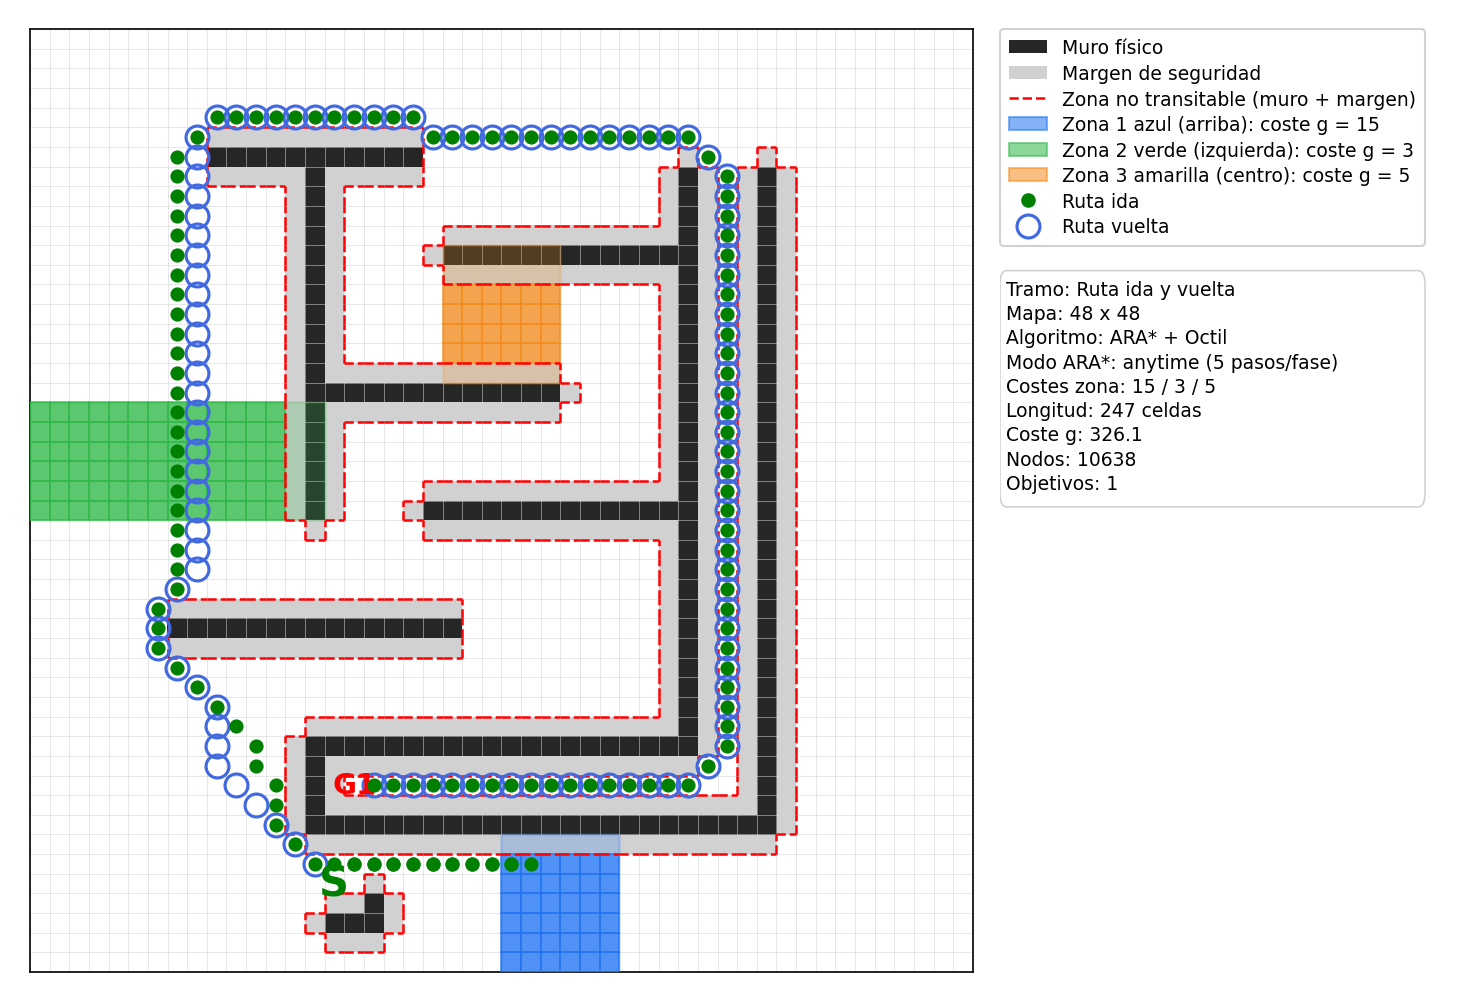
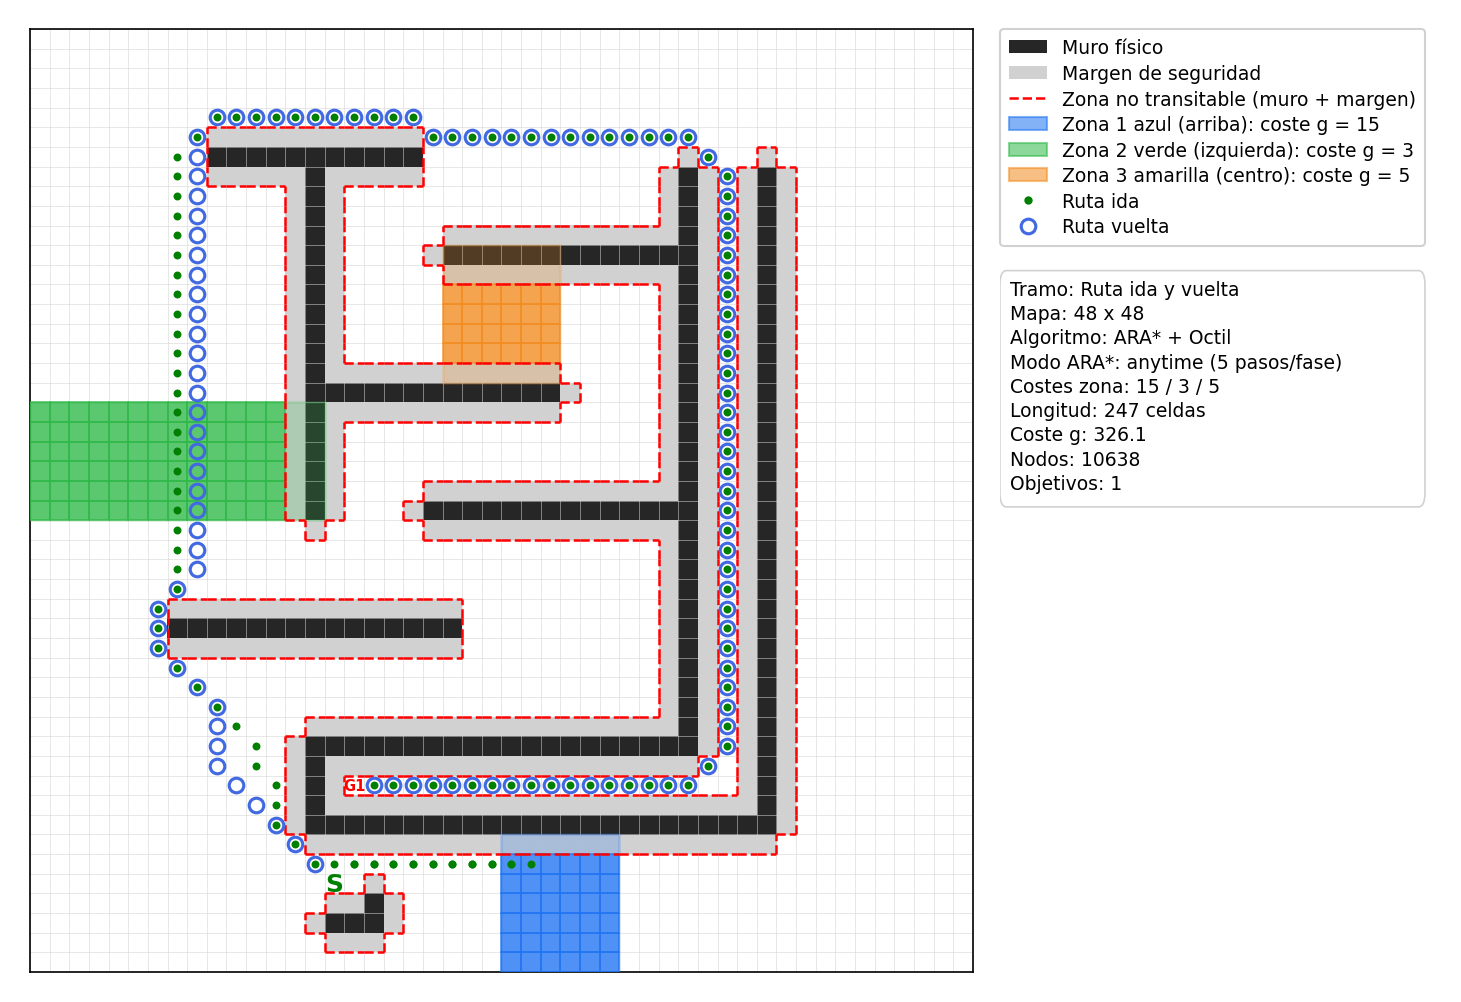
Actualización: mapa bien, margen, tamño de celdas

Changed region(s): [[0.0924, 0.0928, 0.5236, 0.8972], [0.6776, 0.2784, 0.924, 0.495], [0.6776, 0.1856, 0.7084, 0.2475]]

diff --git a/controllers/pioneer_TFM/herramientas/mundo_a_grid.py b/controllers/pioneer_TFM/herramientas/mundo_a_grid.py
@@ -72,8 +72,8 @@ COLOR_RUTA_INTERMEDIA = "darkorange"
 COLOR_RUTA_FINAL = "royalblue"
 COLOR_IDA_COMBINADO = "green"
 COLOR_VUELTA_COMBINADO = "royalblue"
-MARKER_SIZE_IDA = 6
-MARKER_SIZE_VUELTA = 11
+MARKER_SIZE_IDA = 3
+MARKER_SIZE_VUELTA = 7
 MARKER_EDGE_VUELTA = 1.5
 
 
@@ -666,12 +666,12 @@ def guardar_mapa(
 
     ax.text(
         CELDA_INICIO[1], CELDA_INICIO[0], "S",
-        ha="center", va="center", color="green", fontsize=20, fontweight="bold", zorder=10,
+        ha="center", va="center", color="green", fontsize=12, fontweight="bold", zorder=10,
     )
     for i, (fila, columna) in enumerate(CELDAS_OBJETIVO, start=1):
         ax.text(
             columna, fila, f"G{i}",
-            ha="center", va="center", color="red", fontsize=14, fontweight="bold", zorder=10,
+            ha="center", va="center", color="red", fontsize=7, fontweight="bold", zorder=10,
         )
 
     _dibujar_rutas_en_mapa(
